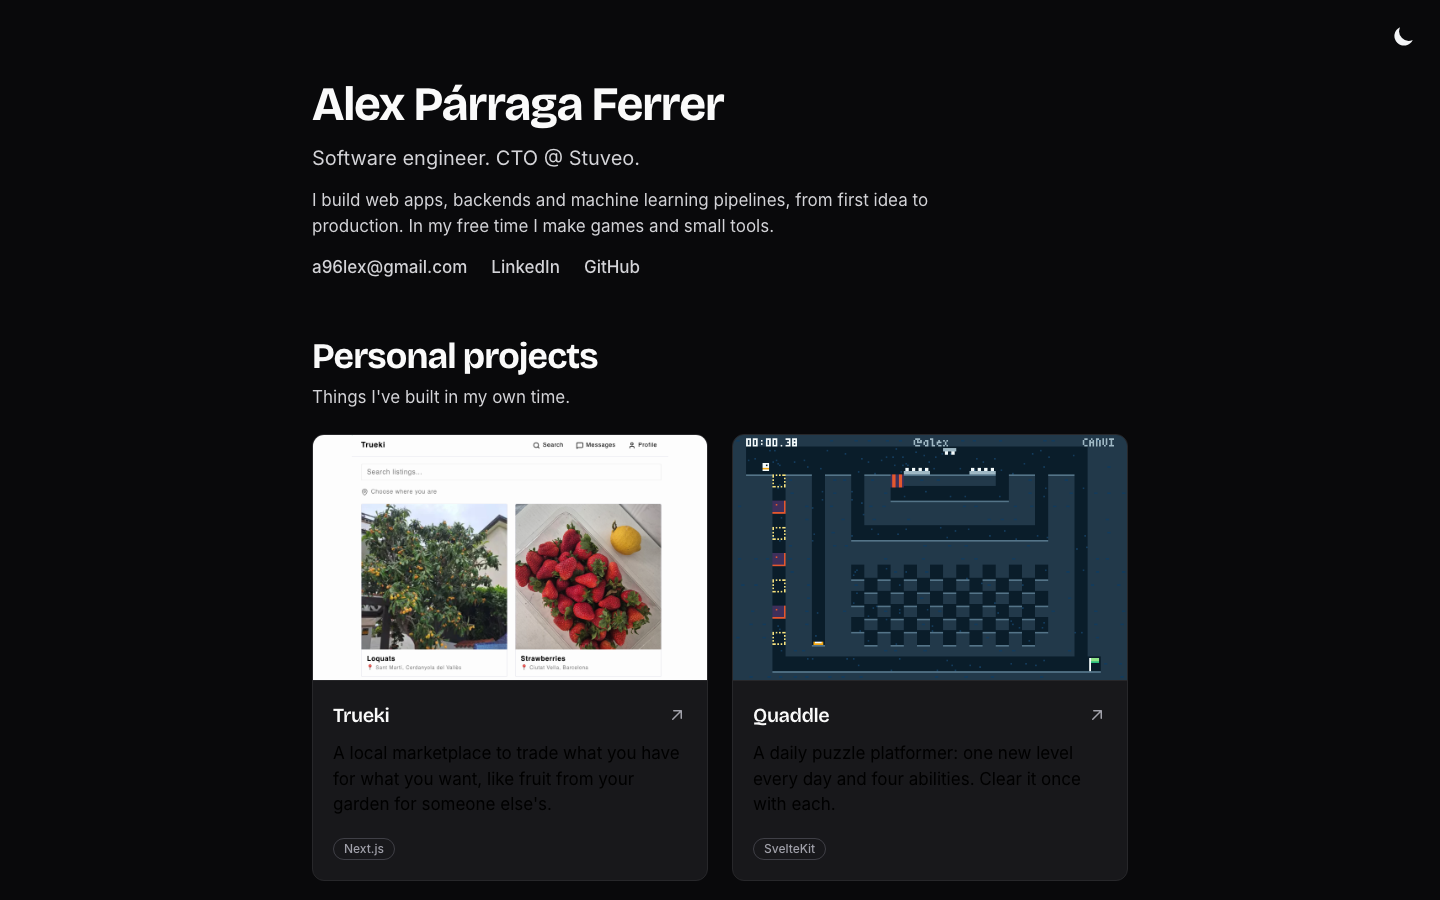
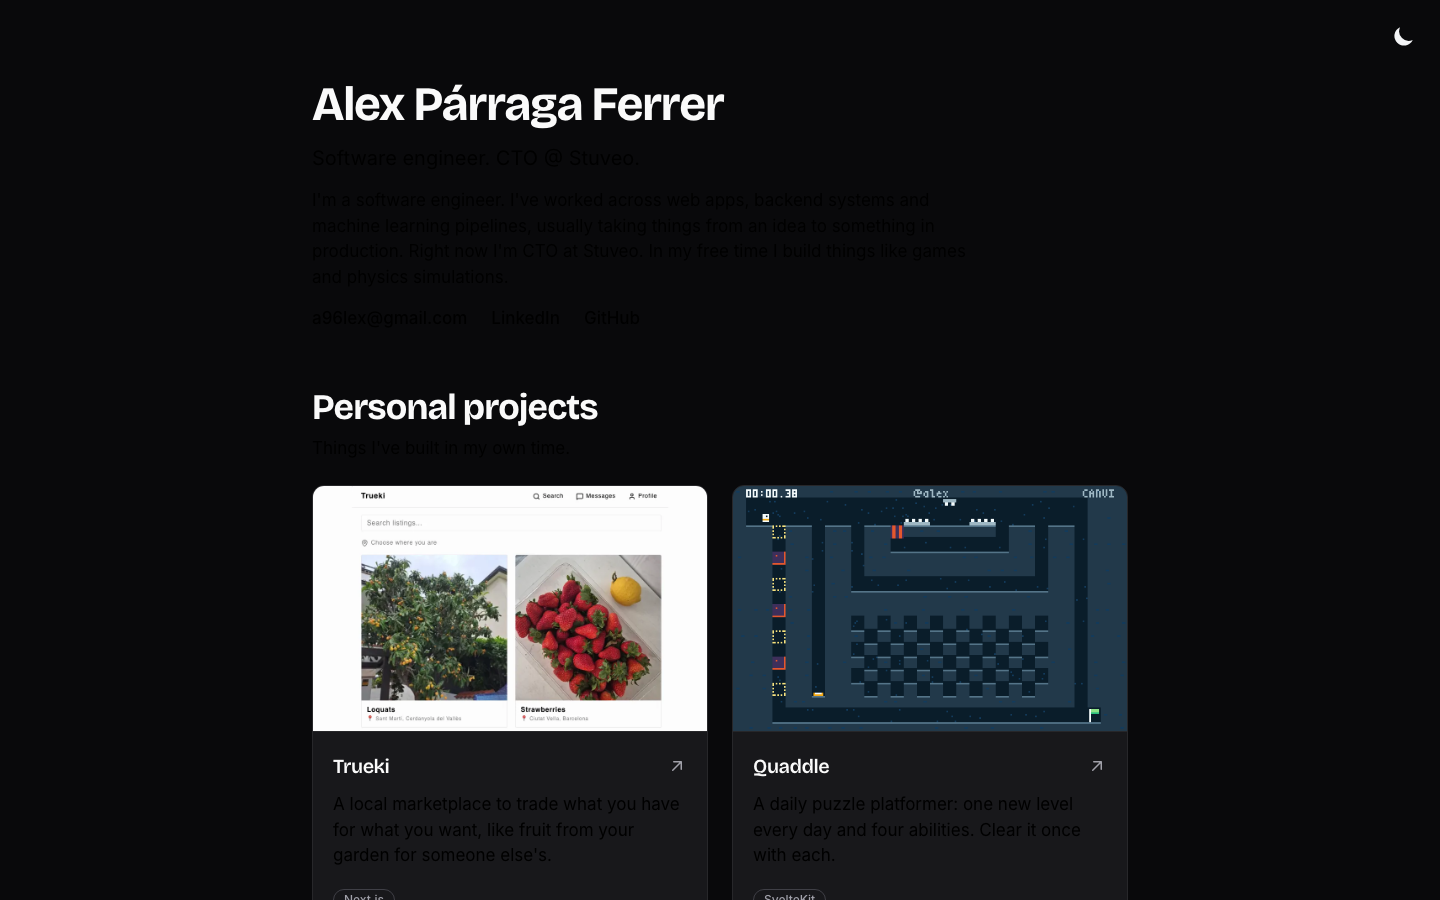
feat: restore the longer intro in the hero

diff --git a/src/components/Hero.svelte b/src/components/Hero.svelte
@@ -6,8 +6,10 @@
   <h1 class="text-5xl font-bold">Alex Párraga Ferrer</h1>
   <p class="text-xl">Software engineer. CTO @ Stuveo.</p>
   <p class="max-w-2xl">
-    I build web apps, backends and machine learning pipelines, from first idea
-    to production. In my free time I make games and small tools.
+    I'm a software engineer. I've worked across web apps, backend systems and
+    machine learning pipelines, usually taking things from an idea to something
+    in production. Right now I'm CTO at Stuveo. In my free time I build things
+    like games and physics simulations.
   </p>
   <Links />
 </div>
